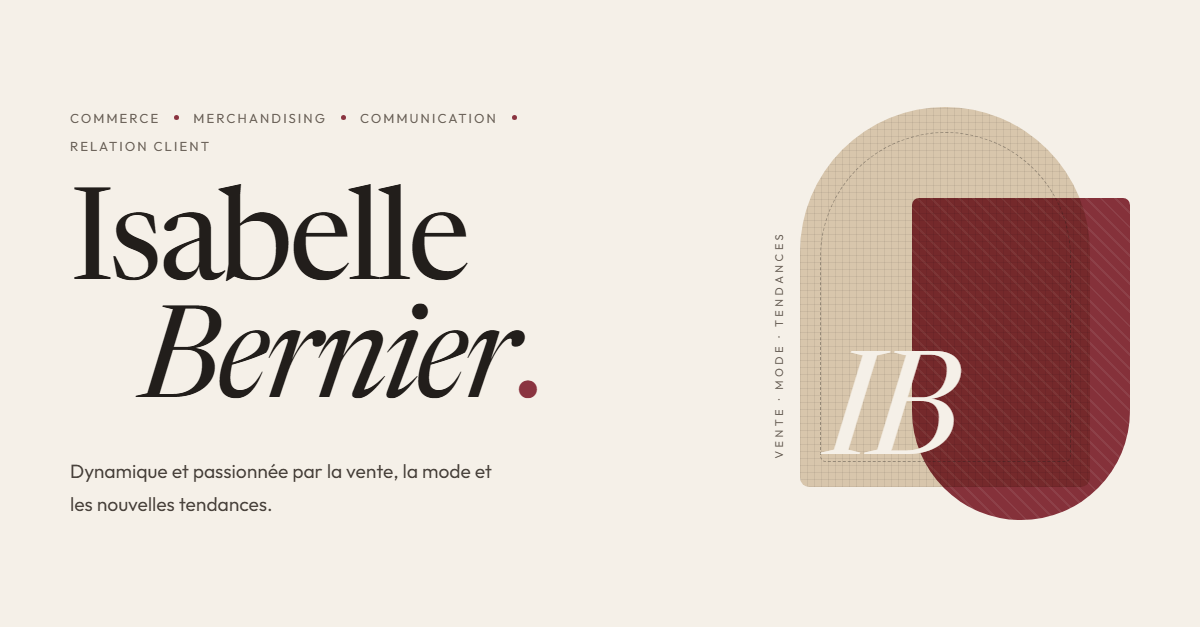
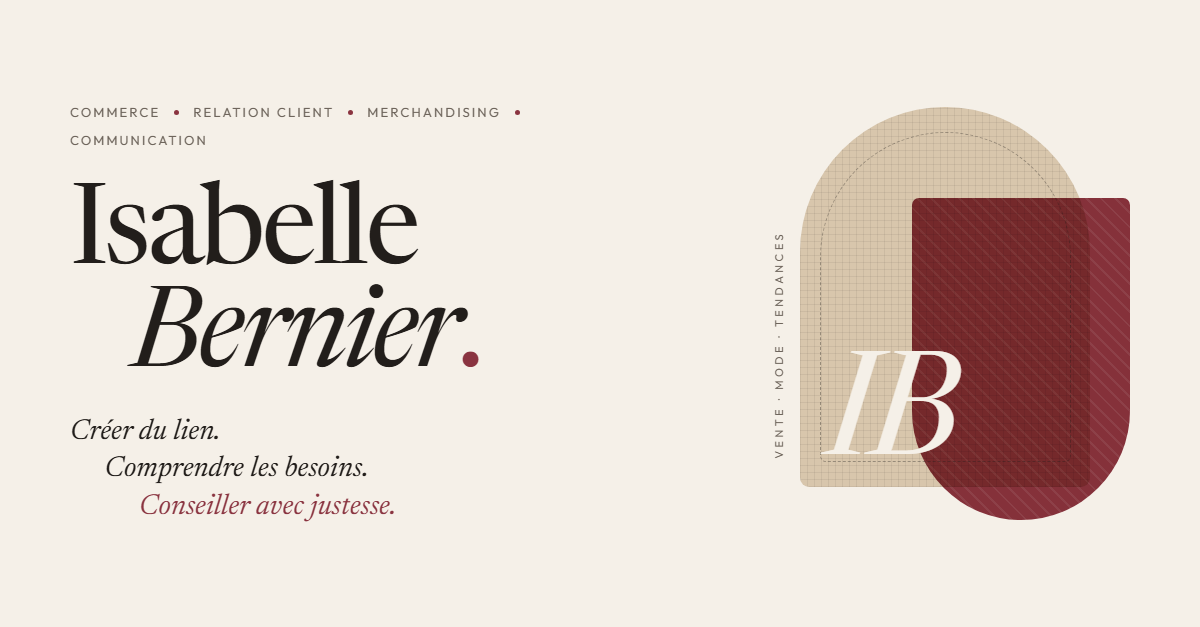
V5 en ligne : forces, vision, projet professionnel, compétences et outils ; image d'aperçu refaite

diff --git a/README.md b/README.md
@@ -2,10 +2,12 @@
 
 Site one-page (HTML/CSS/JS, sans dépendance) construit exclusivement à partir du CV d'Isabelle Bernier.
 
-- `index.html` — version en ligne (copie de `v4/`)
+- `index.html` — version en ligne (copie de `v5/`)
 - `v1/` — V1, titres en Bodoni Moda
 - `v2/` — V2, titres en Newsreader (plus lisible)
 - `v3/` — V3, refonte éditoriale
-- `v4/` — V4, design V2 + contenu V3 (version en ligne)
+- `v4/` — V4, design V2 + contenu V3
+- `v5/` — V5, portfolio + projet professionnel (version en ligne)
 - `og-image.png` — image d'aperçu LinkedIn / réseaux (1200×627)
+
 
